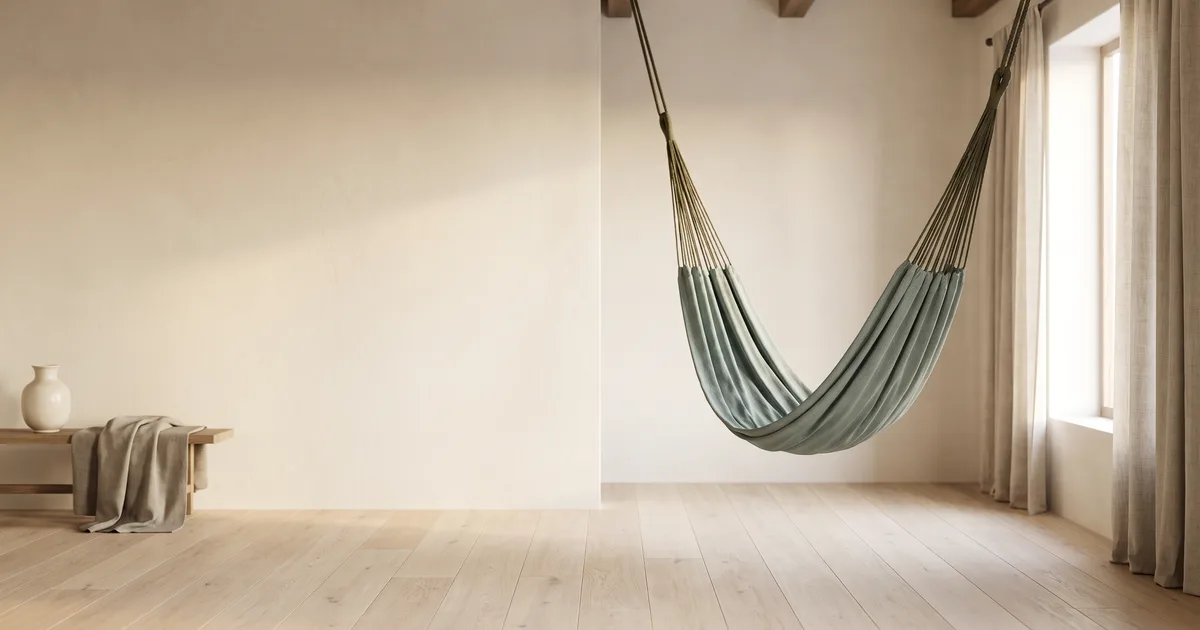
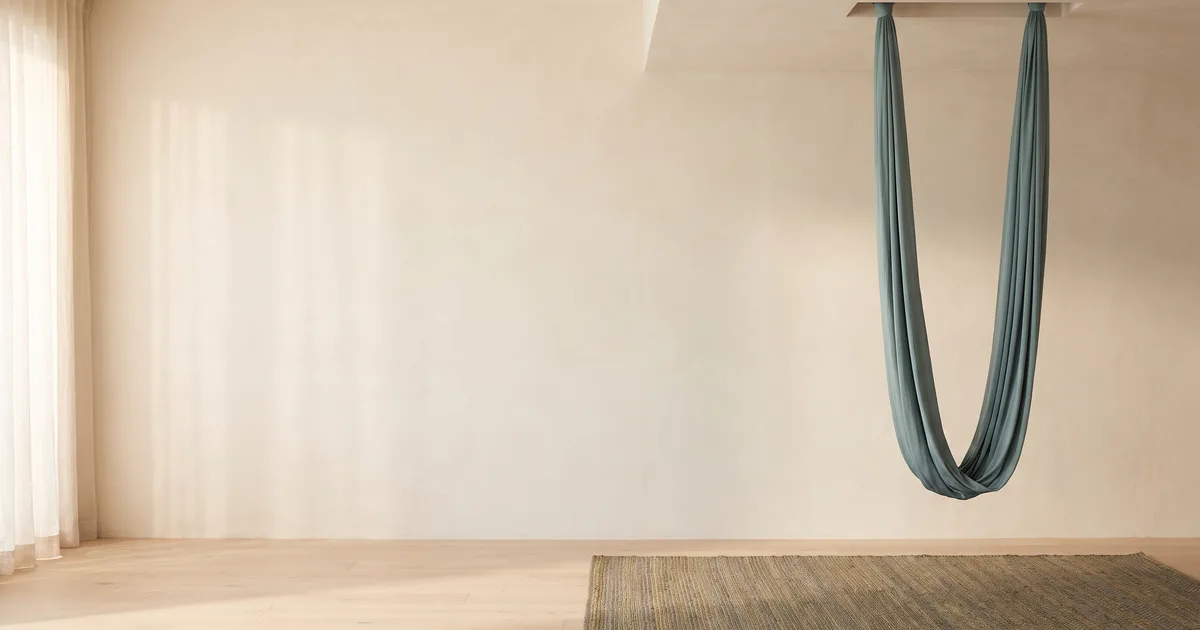
Replace a hero that showed the wrong product, and let ProductList use Amazon photos
The first hero was a good-looking picture of the wrong thing: a garden
hammock slung on spreader cords. An aerial yoga hammock is one loop of fabric
from a single ceiling point. It read as correct precisely because it was
attractive, which is the failure mode this site warns readers about in the
foldable-versus-travel guide. Regenerated with the loop specified explicitly;
the pin went with it.

Separately: ProductList now renders through ProductImage, so its rows show
the real Amazon listing photo where one is cached, exactly as ProductCard has
since this morning. That matters most on a page like this one, where the
generic imagery is standing in for four specific kits — the reader now sees
what they will actually land on. The local image still paints first and stays
if no API photo exists.

All five aerial ASINs verified live: brand, title, IN_STOCK, holding the buy
box, and the audit reports 46 tracked with zero errors.

diff --git a/src/components/affiliate/ProductList.tsx b/src/components/affiliate/ProductList.tsx
@@ -1,4 +1,5 @@
 import { Check } from 'lucide-react'
+import { ProductImage } from '#/components/affiliate/ProductImage'
 import { AffiliateButton } from '#/components/affiliate/AffiliateButton'
 import { cn } from '#/lib/utils'
 import { affiliateLinkHandlers } from '#/lib/affiliate-link-handlers'
@@ -45,14 +46,12 @@ function ProductRow({ item, index }: { item: ProductListItem; index: number }) {
     <li className="border-b border-[color:var(--color-border)] last:border-b-0">
       <div className="flex flex-col gap-5 p-5 sm:flex-row sm:gap-6 sm:p-6">
         <div className="relative w-full flex-shrink-0 overflow-hidden border border-[color:var(--color-border)] sm:w-44">
-          <img
+          <ProductImage
+            slug={item.slug}
             src={item.image}
             alt={item.imageAlt ?? item.productName}
             width={800}
             height={600}
-            loading="lazy"
-            decoding="async"
-            className="aspect-[4/3] w-full object-cover"
           />
           <span
             aria-hidden="true"
